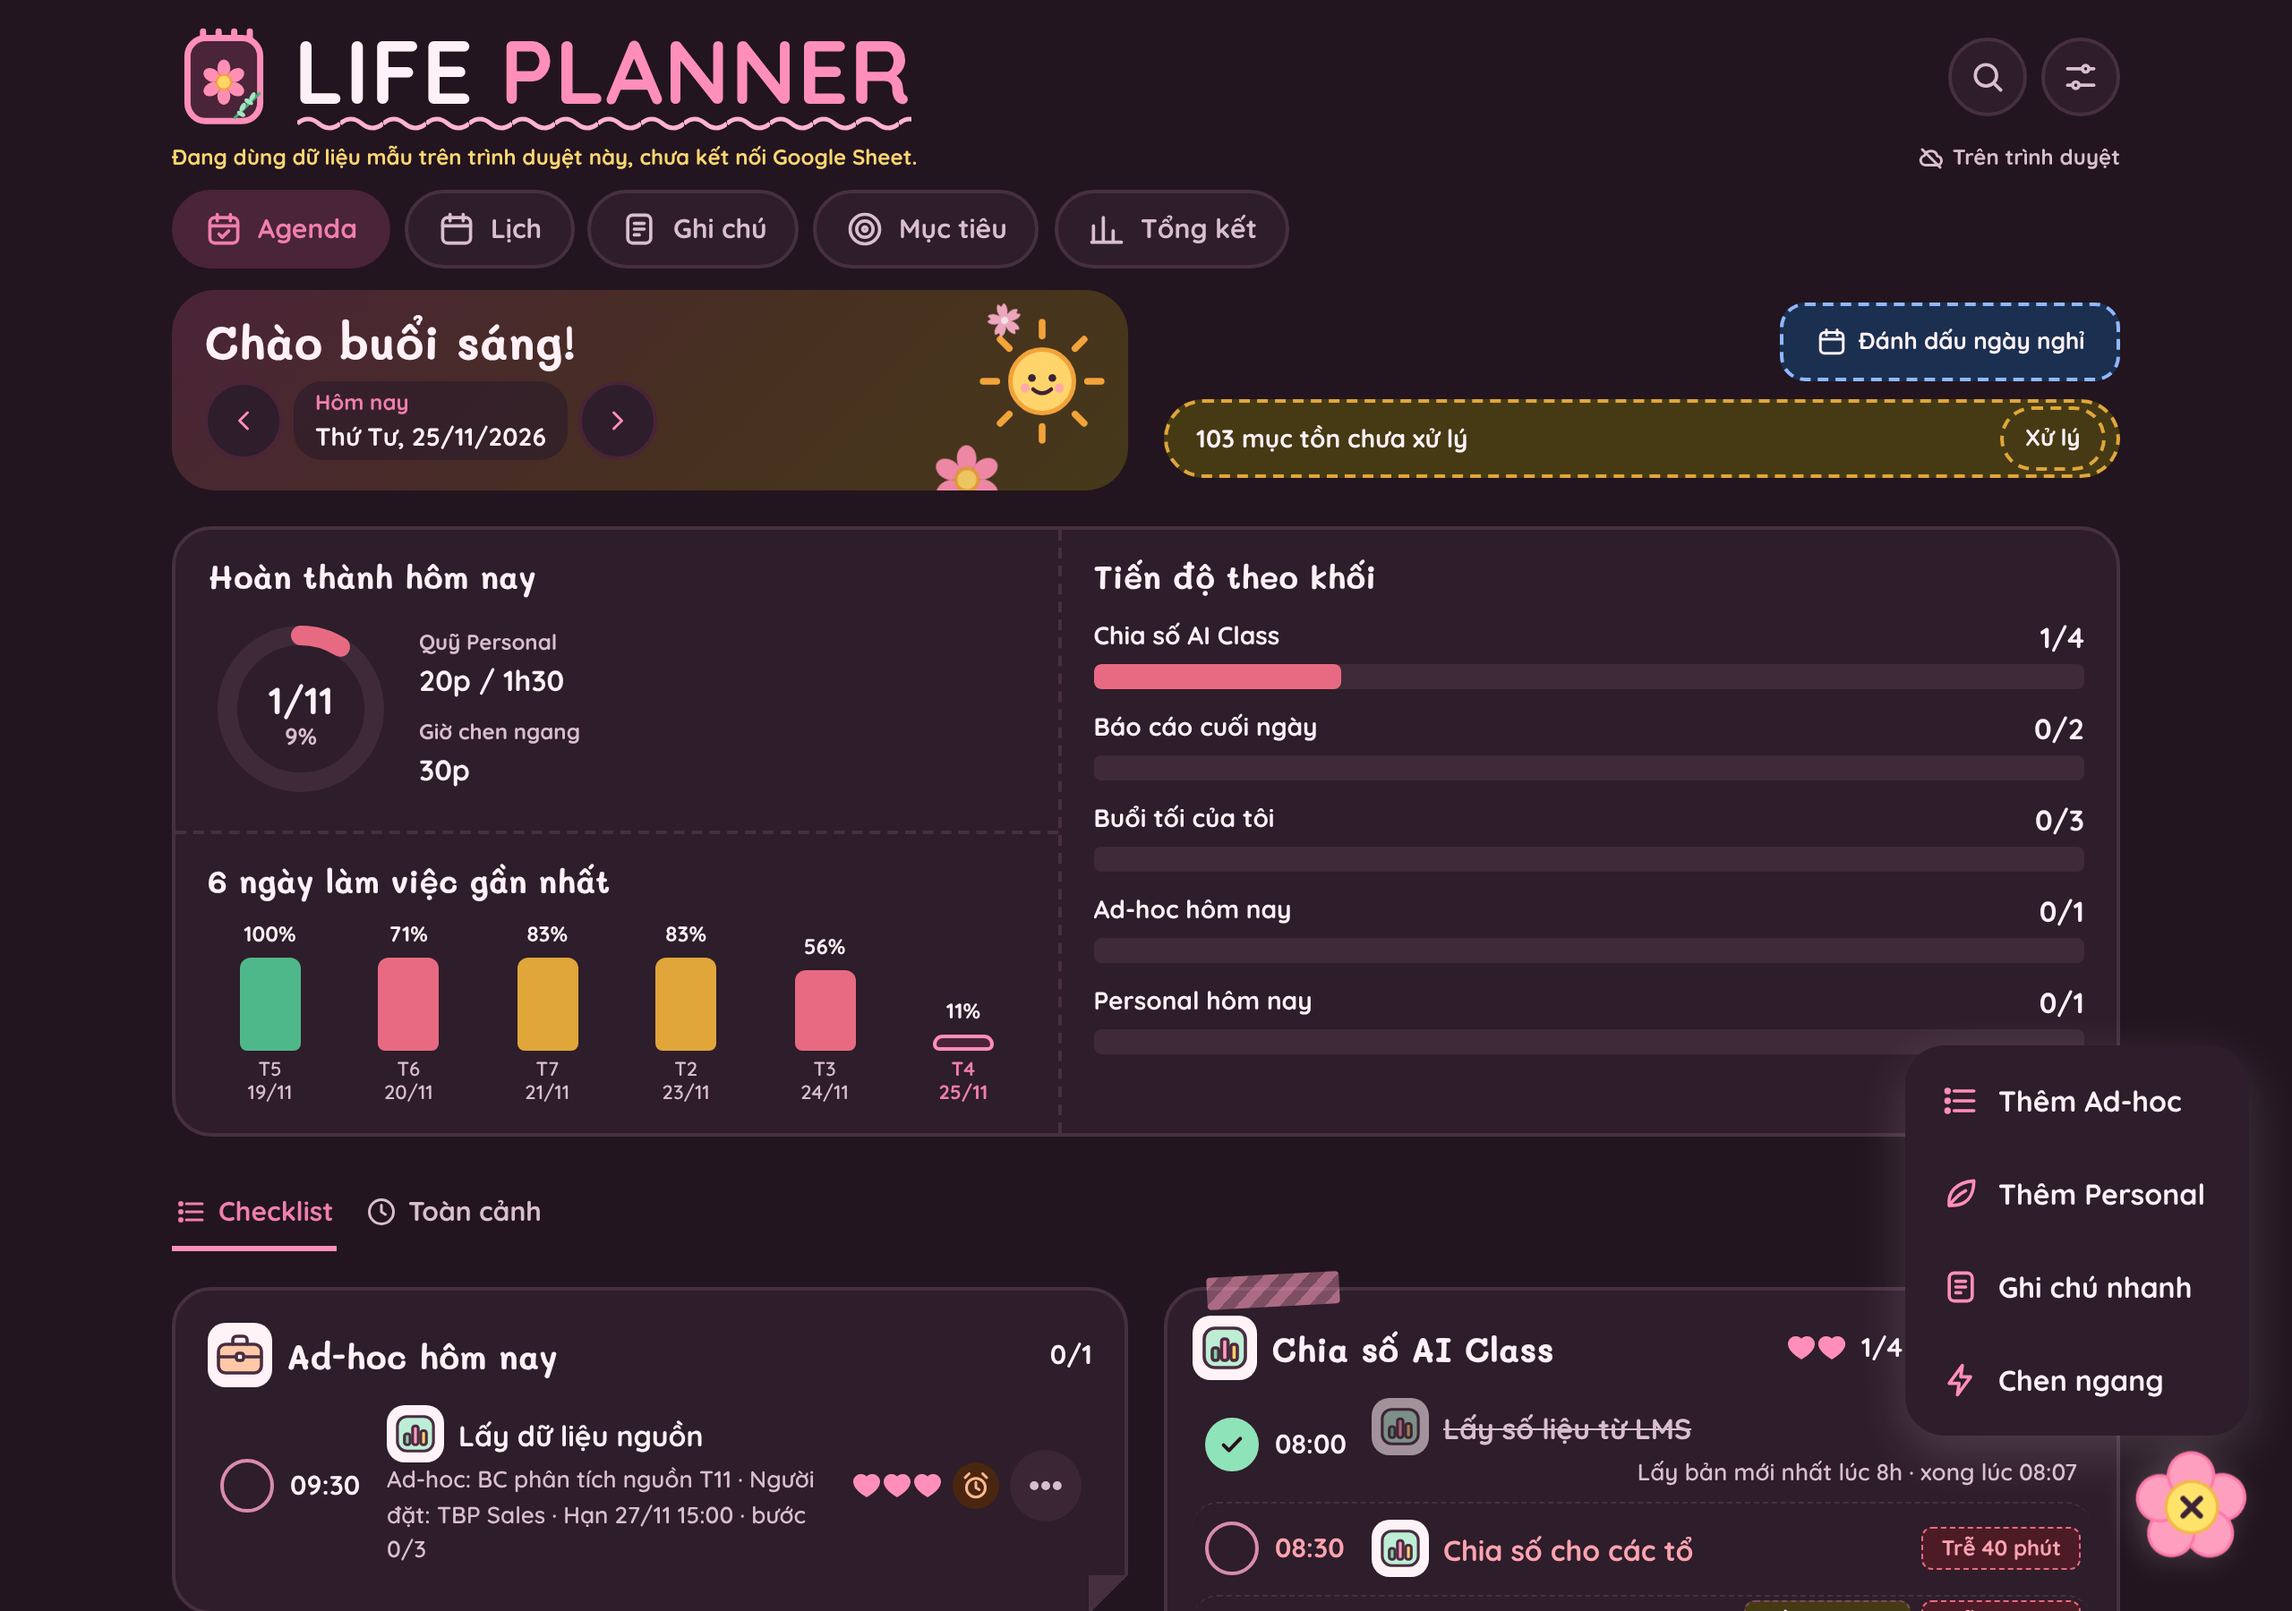
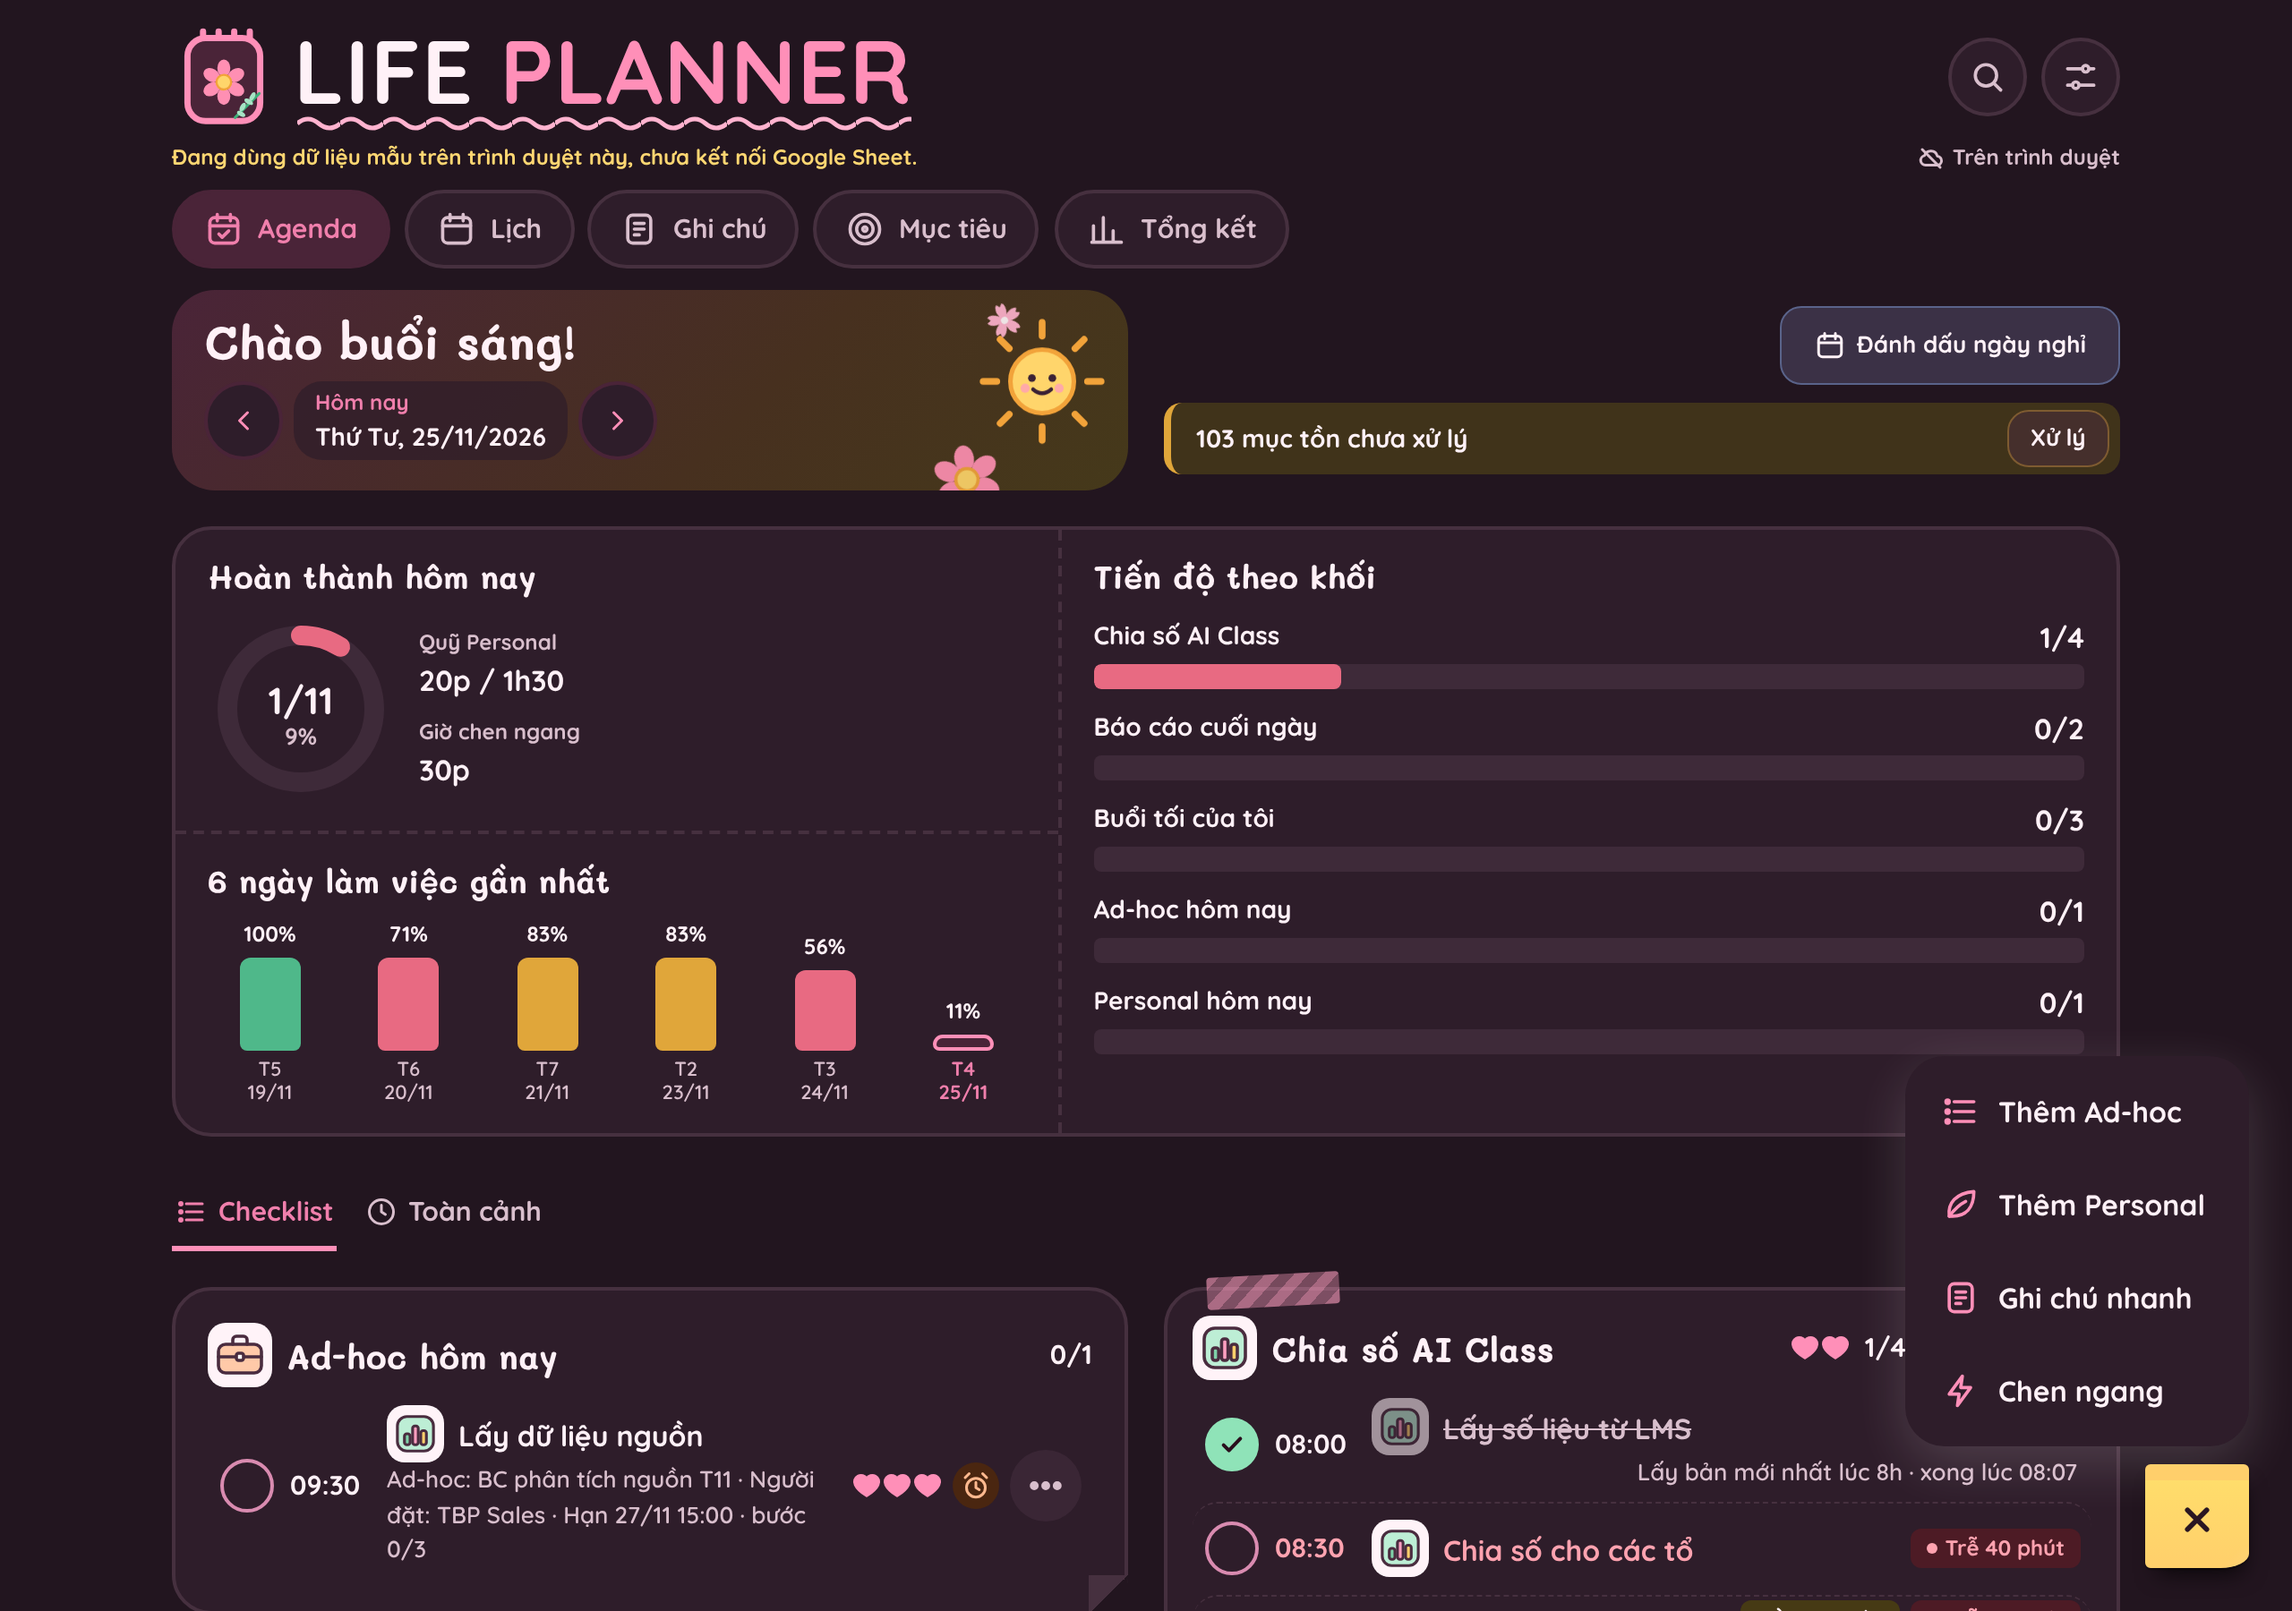
Nút + kiểu giấy note thật, hệ nút phụ và nhãn gọn: bo 12px, nền tô nhạt, bỏ viền đứt
Claude-Session: https://claude.ai/code/session_0149sgxtJqjnDkquQg9Zcj1E

diff --git a/src/v2/css/so-tay.css b/src/v2/css/so-tay.css
@@ -52,31 +52,43 @@ main h1,main h2,.card h2,.page-head h1,.lich-title{font-family:var(--hand);font-
 .mt-sticker .lp-cute{margin:0}
 .mt-sticker .lp-cute svg{width:30px;height:30px}
 
-/* Nhãn viền nét đứt nhiều màu (26/11): nút phụ, nút nhắc, nhãn trạng thái.
-   Mỗi nhãn có nền pastel + viền đứt cùng tông; chữ luôn màu mực hoặc màu đậm để đọc rõ. */
-.btn-soft,.ag-pending .chip,.chip[data-act="doc"]{--tag-bg:var(--accent-soft);--tag-bd:var(--petal-2);--tag-ink:var(--accent-deep)}
-.btn-soft:nth-of-type(3n+2){--tag-bg:var(--mint);--tag-bd:var(--ok-bar);--tag-ink:var(--ok)}
-.btn-soft:nth-of-type(3n+3){--tag-bg:var(--sky);--tag-bd:var(--petal-13);--tag-ink:var(--ink)}
-.btn-soft[data-act="off"]{--tag-bg:var(--sky);--tag-bd:var(--petal-13);--tag-ink:var(--ink)}
-.ag-pending .chip{--tag-bg:var(--butter);--tag-bd:var(--pr-bar);--tag-ink:var(--ink)}
-.chip[data-act="doc"]{--tag-bg:var(--mint);--tag-bd:var(--ok-bar);--tag-ink:var(--ok)}
-.btn-soft,.ag-pending .chip,.chip[data-act="doc"]{background:var(--tag-bg);border:2px dashed var(--tag-bd);color:var(--tag-ink)}
-.btn-soft:hover:not(:disabled),.ag-pending .chip:hover,.chip[data-act="doc"]:hover{background:var(--tag-bg);border-style:solid;filter:saturate(1.15)}
+/* Hệ nút gọn (27/11): góc bo 12px thay vì viên thuốc, nền tô nhạt theo việc, viền liền 1px cùng tông.
+   Không gạch đứt, không bóng. Chữ đậm vừa 700, màu đậm cùng tông để đọc rõ (≥ 4.5:1). */
+.btn{border-radius:12px;font-weight:700;letter-spacing:.1px}
+.btn-primary{border-width:1px}
+.btn-soft,.ag-pending .chip,.chip[data-act="doc"]{--tag:var(--accent);--tag-ink:var(--accent-deep)}
+.btn-soft[data-act="off"]{--tag:var(--petal-13);--tag-ink:var(--ink)}
+.ag-pending .chip{--tag:var(--pr-bar);--tag-ink:var(--ink)}
+.chip[data-act="doc"]{--tag:var(--ok-bar);--tag-ink:var(--ok)}
+.btn-soft,.ag-pending .chip,.chip[data-act="doc"]{border-radius:12px;border:1px solid color-mix(in srgb,var(--tag) 45%,var(--surface));
+  background:color-mix(in srgb,var(--tag) 13%,var(--surface));color:var(--tag-ink);font-weight:700}
+.btn-soft:hover:not(:disabled),.ag-pending .chip:hover,.chip[data-act="doc"]:hover{background:color-mix(in srgb,var(--tag) 24%,var(--surface));border-color:color-mix(in srgb,var(--tag) 70%,var(--surface));transform:none}
+.btn-soft:active:not(:disabled),.ag-pending .chip:active,.chip[data-act="doc"]:active{transform:translateY(1px)}
 .btn-soft .icon,.chip[data-act="doc"] .icon{color:currentColor}
-.ag-pending{border:2px dashed var(--pr-bar);background:var(--butter)}
+.chip{border-radius:10px;font-weight:700}
+.ag-pending .chip{min-height:32px;padding:2px 12px}
+/* Dòng "N mục tồn": dải ghi chú vàng, vạch màu bên trái thay cho viền đứt */
+.ag-pending{border:0;border-left:4px solid var(--pr-bar);border-radius:10px;background:color-mix(in srgb,var(--butter) 75%,var(--surface));padding:4px 6px 4px 14px}
 
-.pill{border:1.5px dashed var(--dash);font-weight:700}
-.pill-late{border-color:var(--warn-bar)}
-.pill-missed{border-color:var(--pr-bar)}
-.pill-ok{border-color:var(--ok-bar)}
-.pill-undone{border-color:var(--dash)}
-.ag-pill-due{border:1.5px dashed var(--accent)}
+/* Nhãn trạng thái: thẻ nhỏ góc 6px, nền tô nhạt, chấm màu phía trước */
+.pill{border:0;border-radius:6px;font-weight:700;padding:2px 9px}
+.pill-late::before,.pill-missed::before,.pill-ok::before,.ag-pill-due::before{content:"";width:6px;height:6px;border-radius:50%;background:currentColor;flex:none}
+.ag-pill-due{border:0}
 
-/* Nút "+": bông hoa 5 cánh, nhụy vàng có dấu +. Mở menu thì hoa xoay. */
-.fab-main,.fab-main:active,.fab-main:hover{width:64px;height:64px;padding:0;border:0;background:transparent;box-shadow:none}
-.fab-flower{width:64px;height:64px;display:block;filter:drop-shadow(0 4px 8px color-mix(in srgb,var(--ink) 18%,transparent));transition:transform .4s var(--spring)}
-.fab-main:hover .fab-flower{transform:rotate(18deg) scale(1.06)}
-.fab-main[aria-expanded="true"] .fab-flower{transform:rotate(72deg)}
-.fab-main[aria-expanded="true"] .fab-plus{transform:rotate(-27deg);transform-origin:40px 40px}
-.fab-main:focus-visible{border-radius:99px}
-@media (prefers-reduced-motion:reduce){.fab-flower,.fab-main:hover .fab-flower,.fab-main[aria-expanded="true"] .fab-flower{transition:none;transform:none}}
+/* Nút "+": tờ giấy note. Giấy vuông, mép keo đậm hơn ở trên, góc dưới phải hơi cong lên,
+   bóng đổ lệch về góc cong như giấy thật. Mở menu: giấy thẳng lại, dấu + xoay thành ×. */
+.fab-main,.fab-main:active{position:relative;width:58px;height:58px;padding:0;border:0;color:var(--ink);
+  border-radius:3px 3px 16px 3px/3px 3px 8px 3px;
+  background:linear-gradient(180deg,color-mix(in srgb,var(--pr-bar) 28%,var(--butter)) 0 9px,var(--butter) 9px,color-mix(in srgb,var(--pr-bar) 14%,var(--butter)) 100%);
+  box-shadow:0 1px 1px color-mix(in srgb,var(--ink) 10%,transparent),2px 7px 10px -5px color-mix(in srgb,var(--ink) 30%,transparent);
+  transform:rotate(-3deg);transition:transform .25s var(--spring),box-shadow .25s}
+.fab-main::after{content:"";position:absolute;right:0;bottom:0;width:18px;height:12px;border-radius:0 0 16px 0/0 0 8px 0;
+  background:linear-gradient(135deg,transparent 45%,color-mix(in srgb,var(--ink) 7%,transparent));pointer-events:none}
+.fab-main:hover{transform:rotate(-1deg) translateY(-2px);box-shadow:0 1px 1px color-mix(in srgb,var(--ink) 10%,transparent),3px 12px 14px -6px color-mix(in srgb,var(--ink) 32%,transparent)}
+.fab-main[aria-expanded="true"]{transform:rotate(0)}
+.fab-main .icon{width:26px;height:26px;stroke-width:2.6;margin-top:4px}
+.fab-main:focus-visible{outline-offset:4px}
+/* Tối: giấy vẫn vàng sáng như giấy thật, chữ mực sẫm */
+@media (prefers-color-scheme:dark){:root:not([data-theme="light"]) .fab-main{background:linear-gradient(180deg,var(--petal-4) 0 9px,color-mix(in srgb,var(--petal-12) 70%,var(--petal-4)) 9px,var(--petal-4) 100%);color:#2a1622;box-shadow:0 1px 1px rgba(0,0,0,.4),2px 8px 12px -5px rgba(0,0,0,.7)}}
+:root[data-theme="dark"] .fab-main{background:linear-gradient(180deg,var(--petal-4) 0 9px,color-mix(in srgb,var(--petal-12) 70%,var(--petal-4)) 9px,var(--petal-4) 100%);color:#2a1622;box-shadow:0 1px 1px rgba(0,0,0,.4),2px 8px 12px -5px rgba(0,0,0,.7)}
+@media (prefers-reduced-motion:reduce){.fab-main,.fab-main:hover{transition:none;transform:rotate(-3deg)}}

diff --git a/src/v2/index.html b/src/v2/index.html
@@ -84,7 +84,7 @@
       <button type="button" class="fab-item" role="menuitem" data-kind="dotxuat"><svg class="icon" viewBox="0 0 24 24" aria-hidden="true"><path d="M13 3 5 14h6l-1 7 8-11h-6z"/></svg>Chen ngang</button>
     </div>
     <button type="button" class="fab-main" id="fab" aria-label="Thêm mới" aria-haspopup="true" aria-expanded="false">
-      <svg class="fab-flower" viewBox="0 0 80 80" aria-hidden="true" focusable="false"><g fill="#ff9fc0" stroke="#ff7aa8" stroke-width="2"><circle cx="40" cy="19" r="15"/><circle cx="60" cy="34" r="15"/><circle cx="52" cy="58" r="15"/><circle cx="28" cy="58" r="15"/><circle cx="20" cy="34" r="15"/></g><circle cx="40" cy="40" r="17" fill="#ffe36b" stroke="#f2b84b" stroke-width="2"/><path class="fab-plus" d="M40 32v16M32 40h16" stroke="#3b2235" stroke-width="3.6" stroke-linecap="round"/></svg>
+      <svg class="icon" viewBox="0 0 24 24" aria-hidden="true"><path d="M12 5v14M5 12h14"/></svg>
     </button>
   </div>
 
